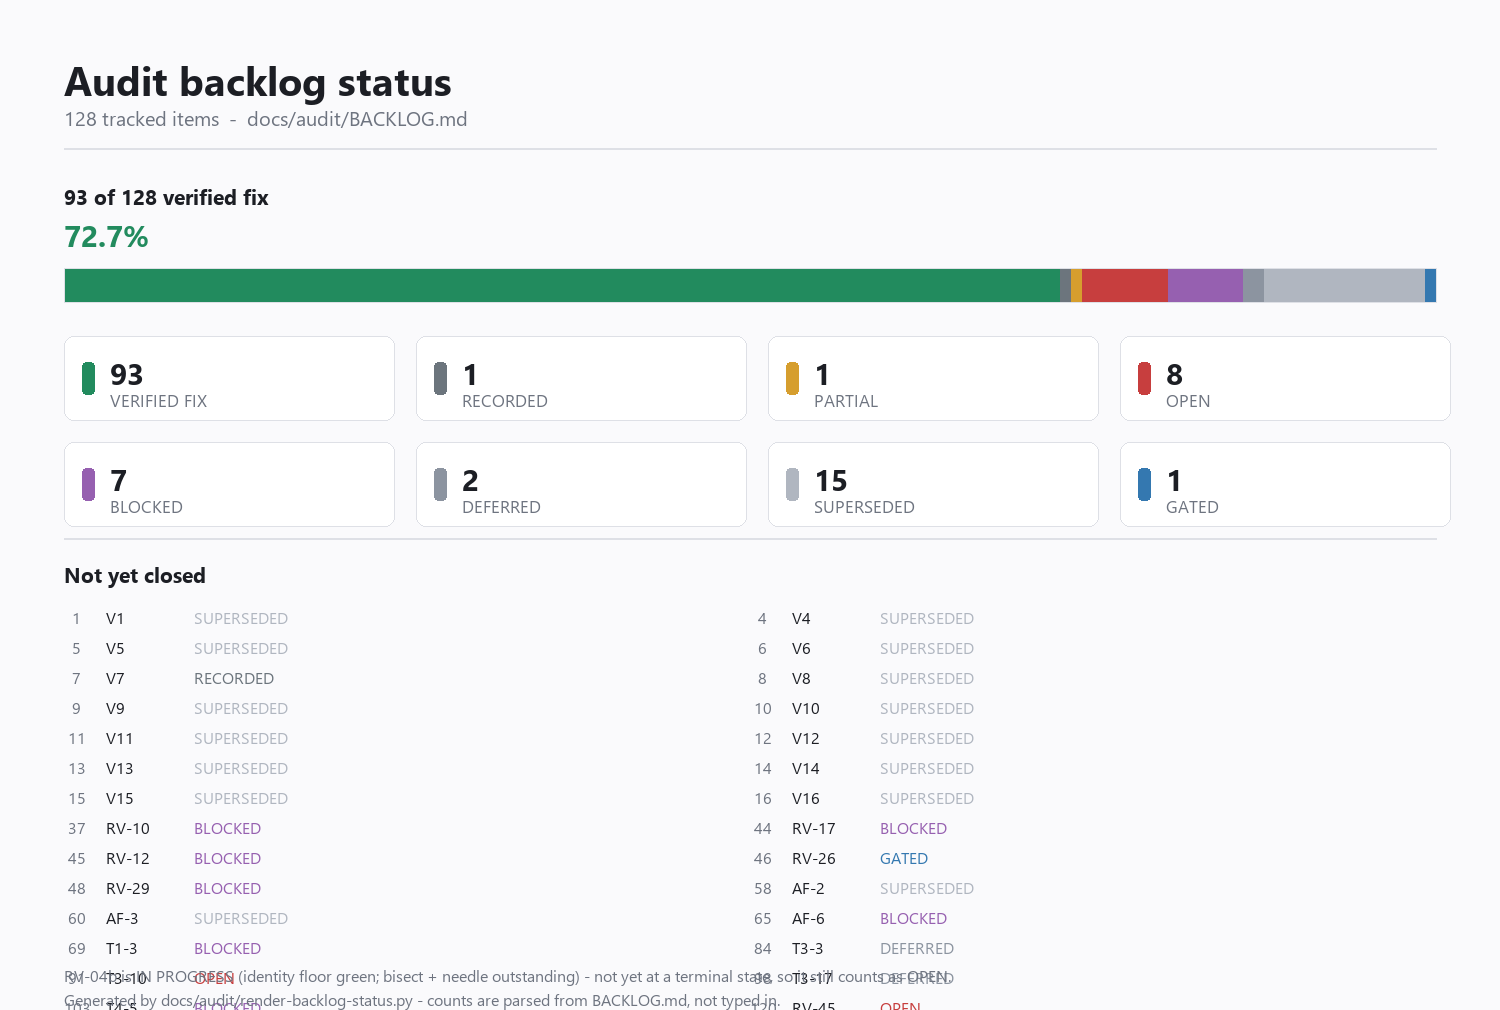
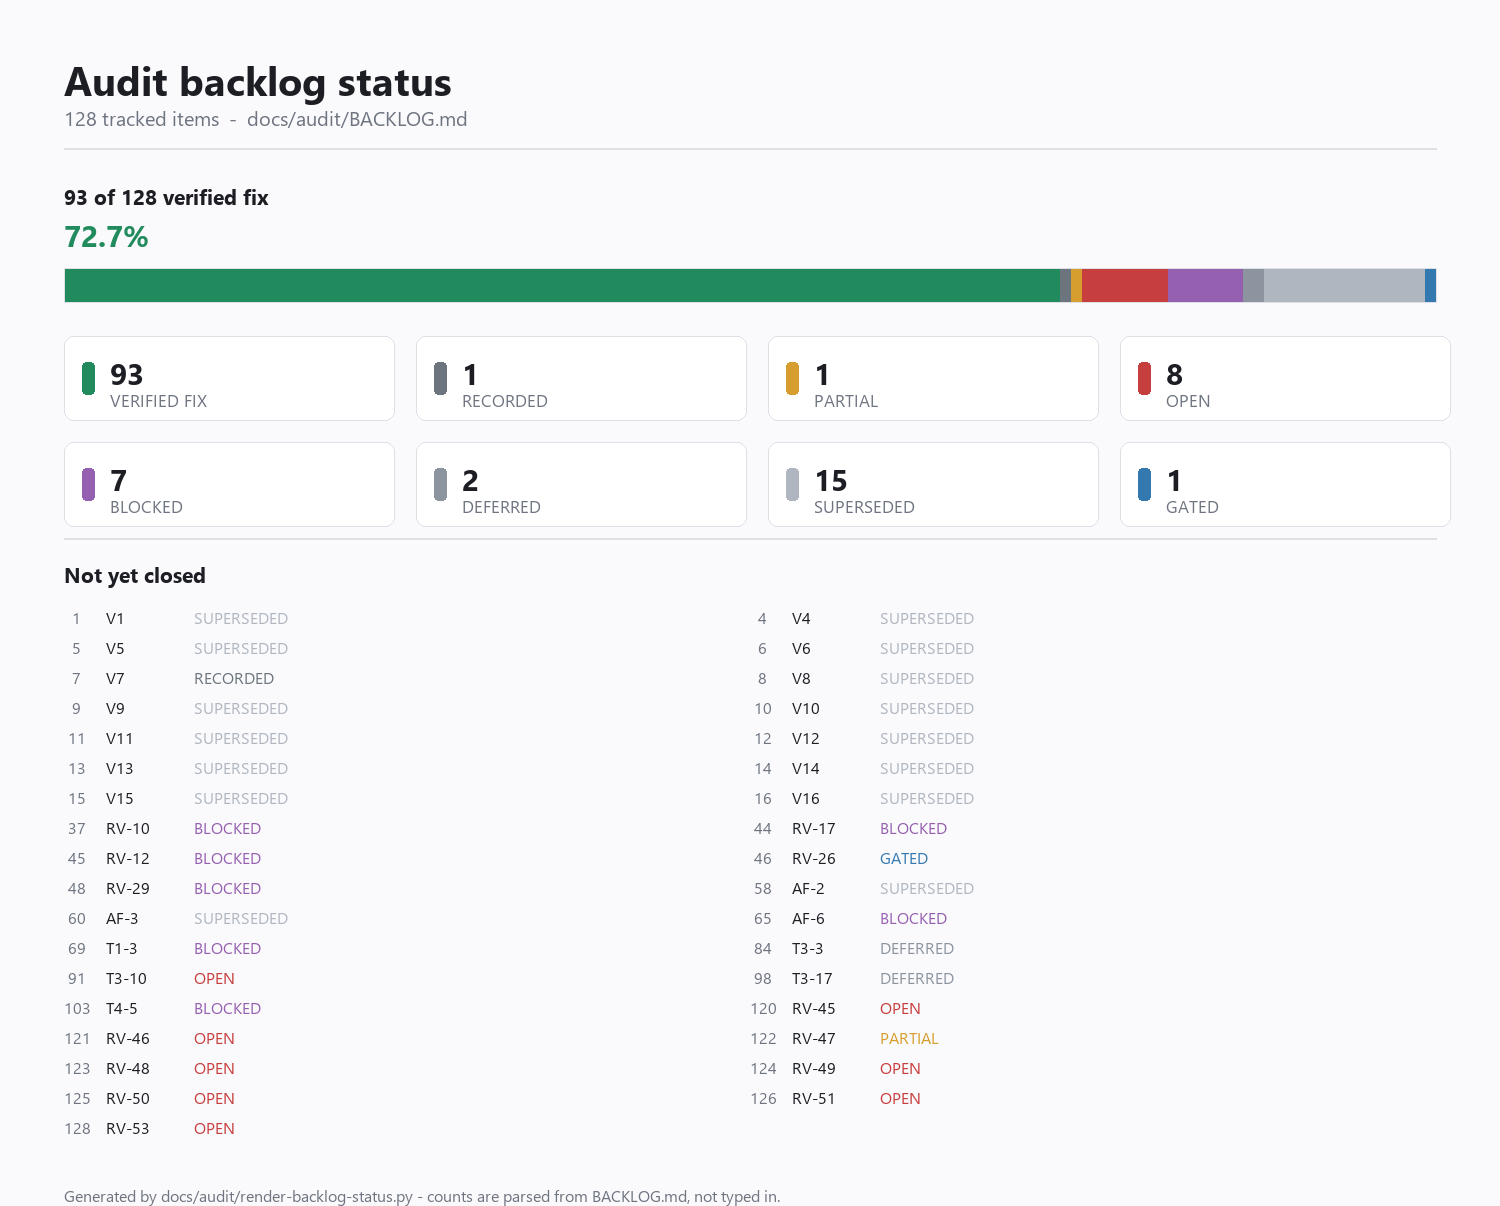
Backlog status image: fit the outstanding list and drop a stale note
The canvas was fixed at 1500x1010, so the 35-item outstanding list ran into the footer. The canvas
height now follows the outstanding count (1500x1206). Removed a hardcoded RV-04b 'IN PROGRESS' footer
line that contradicted the script's own 'not typed in' promise. Counts unchanged: 93 verified fix of 128.

diff --git a/docs/audit/render-backlog-status.py b/docs/audit/render-backlog-status.py
@@ -15,7 +15,7 @@ ROOT = Path(__file__).resolve().parents[2]
 BACKLOG = ROOT / "docs" / "audit" / "BACKLOG.md"
 OUT = ROOT / "docs" / "audit" / "backlog-status.png"
 
-W, H = 1500, 1010  # the original canvas, so this drops in without rescaling anything
+W, H_MIN = 1500, 1010  # the original canvas height; the real height grows to fit the list
 BG = (250, 250, 252)
 INK = (28, 30, 36)
 MUTED = (110, 116, 128)
@@ -73,7 +73,14 @@ def main():
     if unknown:
         sys.exit(f"unmapped status(es), refusing to guess a colour: {unknown}")
 
-    img = Image.new("RGB", (W, H), BG)
+    # Canvas height follows the outstanding list so the rows never run into the footer.
+    # The list has 2 columns; each row is 30 px; the list starts at OY and needs a 46 px header.
+    outstanding_count = sum(1 for _o, _i, _raw, s in rows if s != "VERIFIED FIX")
+    list_rows = (outstanding_count + 1) // 2
+    OY = 560
+    canvas_h = max(H_MIN, OY + 46 + list_rows * 30 + 60)
+
+    img = Image.new("RGB", (W, canvas_h), BG)
     d = ImageDraw.Draw(img)
 
     f_title = load_font(40, bold=True)
@@ -117,7 +124,7 @@ def main():
         d.text((x0 + 46, y0 + 52), status, font=f_note, fill=MUTED)
 
     # Outstanding work, so the chart is not just a victory lap
-    oy = 560
+    oy = OY
     d.line([(64, oy - 22), (W - 64, oy - 22)], fill=RULE, width=2)
     d.text((64, oy), "Not yet closed", font=f_lbl, fill=INK)
 
@@ -134,14 +141,7 @@ def main():
         d.text((x0 + 130, y0), status, font=f_small, fill=COLORS.get(status, MUTED))
 
     d.text(
-        (64, H - 46),
-        "RV-04b is IN PROGRESS (identity floor green; bisect + needle outstanding) - "
-        "not yet at a terminal state, so it still counts as OPEN.",
-        font=f_small,
-        fill=MUTED,
-    )
-    d.text(
-        (64, H - 22),
+        (64, canvas_h - 22),
         "Generated by docs/audit/render-backlog-status.py - counts are parsed from BACKLOG.md, not typed in.",
         font=f_small,
         fill=MUTED,
